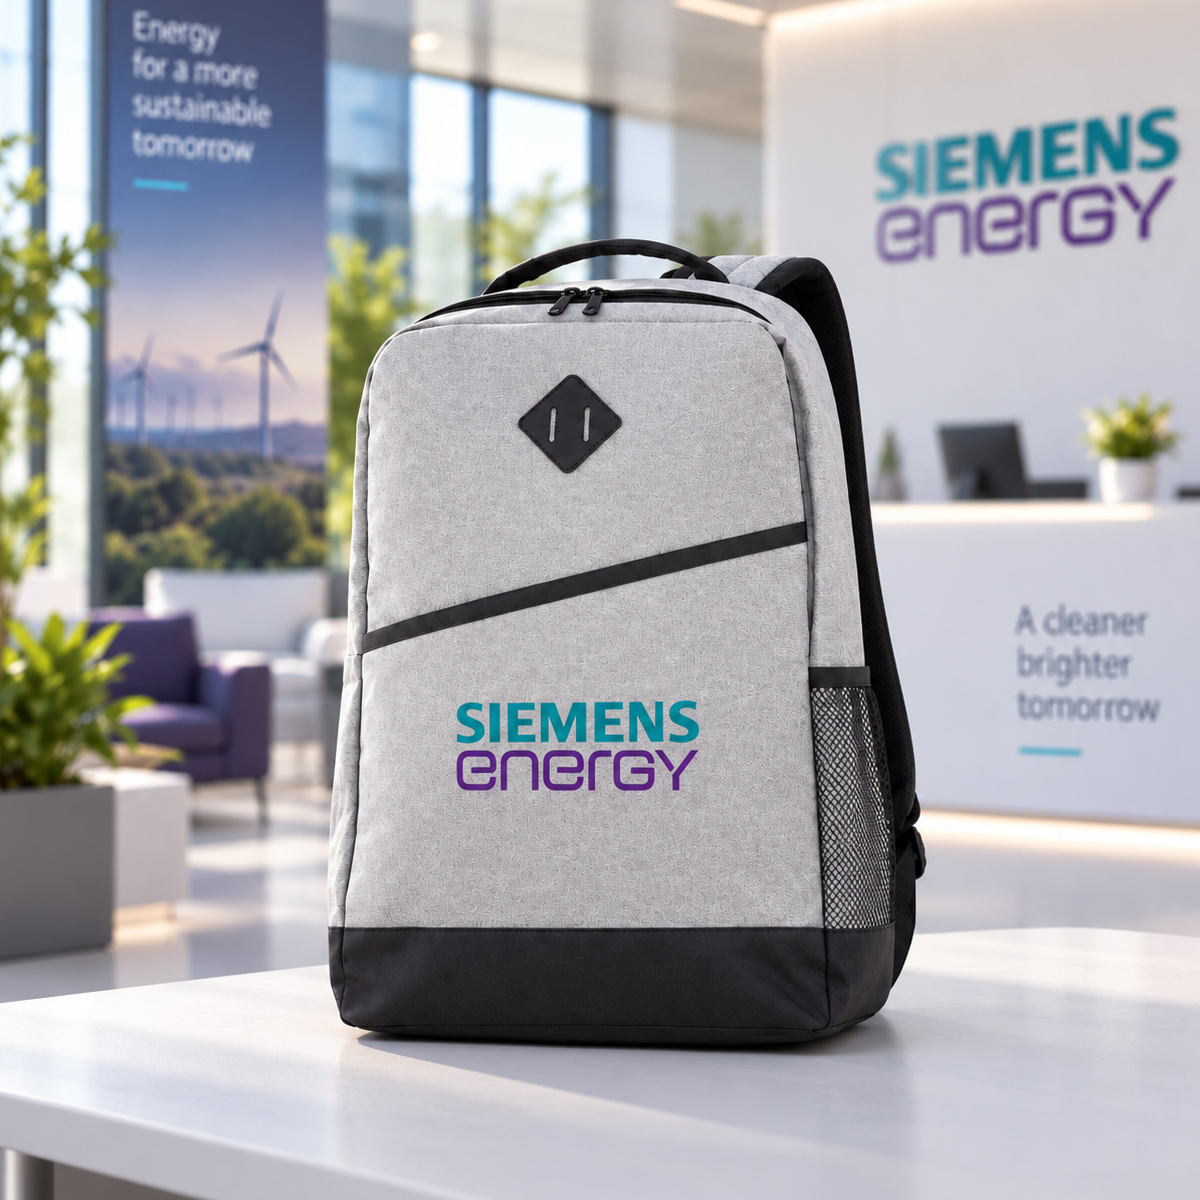
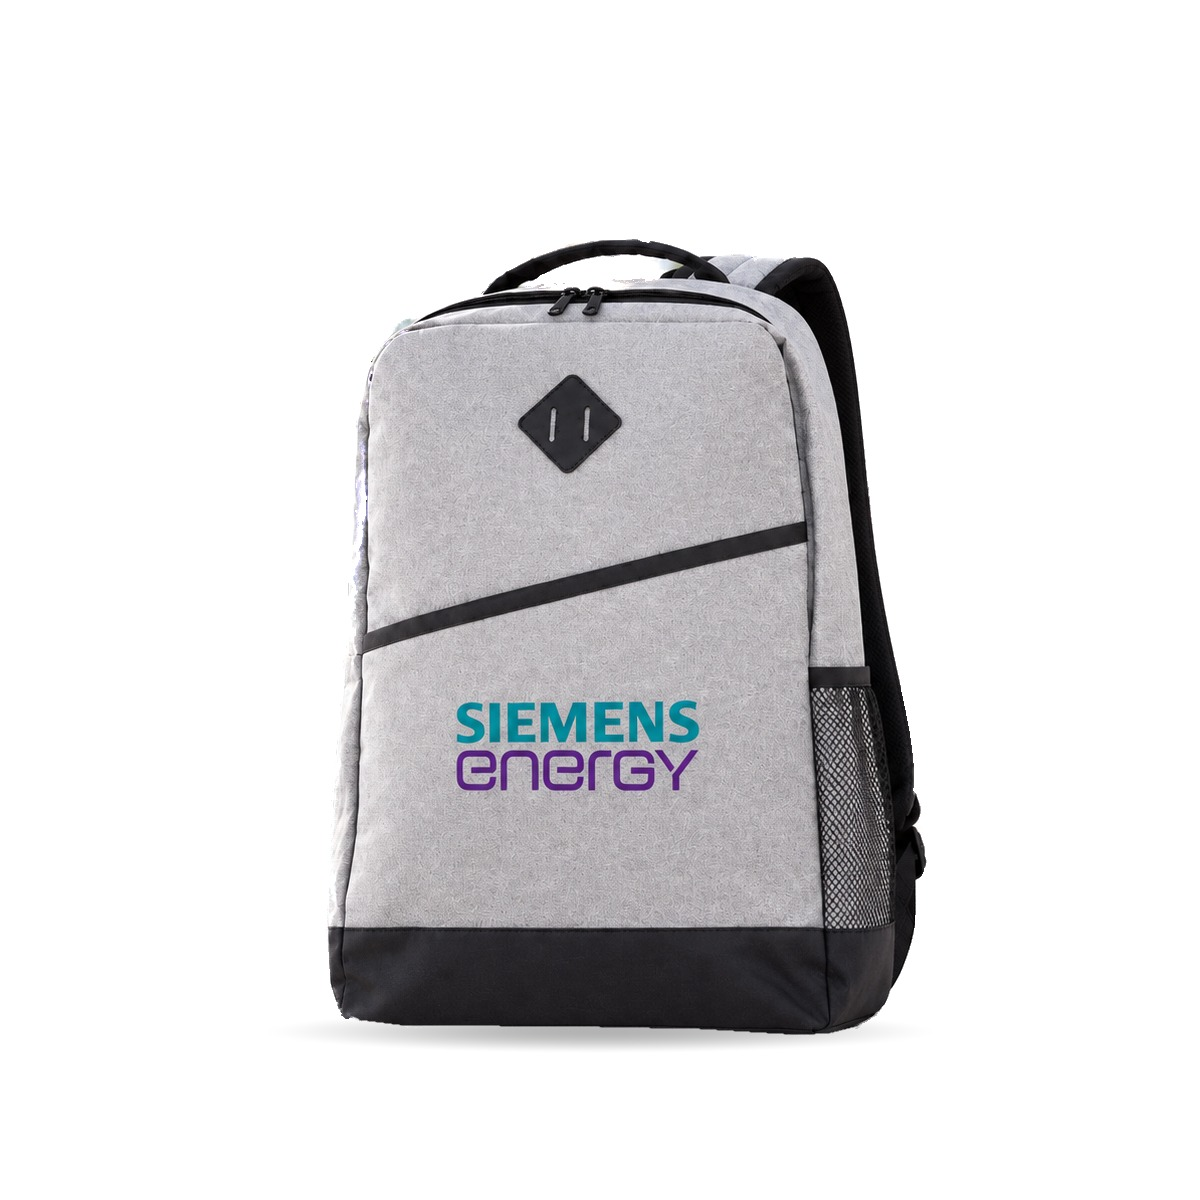
Morral River con fondo blanco y nueva sección "Bonos"
- Morral Backpack River: se recorta el morral y se pone fondo blanco con
  sombra suave (antes, escena de lobby con letreros).
- Nueva sección "Bonos" (productos especiales) después del carrusel, con
  botón para consultar con el ejecutivo.

diff --git a/assets/css/styles.css b/assets/css/styles.css
@@ -544,6 +544,20 @@ h1,h2,h3,h4{ font-family:var(--font-head); font-weight:800; line-height:1.06; ma
 }
 
 /* ==========================================================================
+   BONOS / PRODUCTOS ESPECIALES
+   ========================================================================== */
+.bonos{ max-width:1320px; margin:80px auto 0; padding:0 24px; }
+.bonos-card{
+  max-width:760px; margin:0 auto; text-align:center;
+  background:var(--surface); border:1px solid var(--border); border-radius:var(--radius-lg);
+  box-shadow:var(--shadow-card); padding:44px 34px;
+}
+.bonos-icon{ display:block; font-size:2.4rem; margin-bottom:6px; }
+.bonos-card h2{ font-size:clamp(1.8rem,3.4vw,2.6rem); color:var(--text); margin:2px 0 14px; }
+.bonos-card p{ color:var(--text-muted); font-size:1.02rem; max-width:560px; margin:0 auto 26px; }
+@media (max-width: 560px){ .bonos-card{ padding:34px 20px; } .bonos-card .btn{ white-space:normal; } }
+
+/* ==========================================================================
    ALIANZAS / PROVEEDORES PREMIUM
    ========================================================================== */
 .partners{ max-width:1320px; margin:80px auto 0; padding:0 24px; }

diff --git a/index.html b/index.html
@@ -138,6 +138,16 @@
     </div>
   </section>
 
+  <section class="bonos" id="bonos">
+    <div class="bonos-card">
+      <span class="bonos-icon" aria-hidden="true">🎁</span>
+      <span class="eyebrow">Productos especiales</span>
+      <h2>Bonos</h2>
+      <p>Además de los productos del catálogo, contamos con bonos y otros productos especiales para tus obsequios corporativos. Consulta con tu ejecutivo las opciones disponibles.</p>
+      <button class="btn btn-primary btn-lg js-open-whatsapp" type="button">Consultar bonos con mi ejecutivo</button>
+    </div>
+  </section>
+
   <section class="partners" id="aliados">
     <div class="section-head">
       <span class="eyebrow">Alianzas</span>
